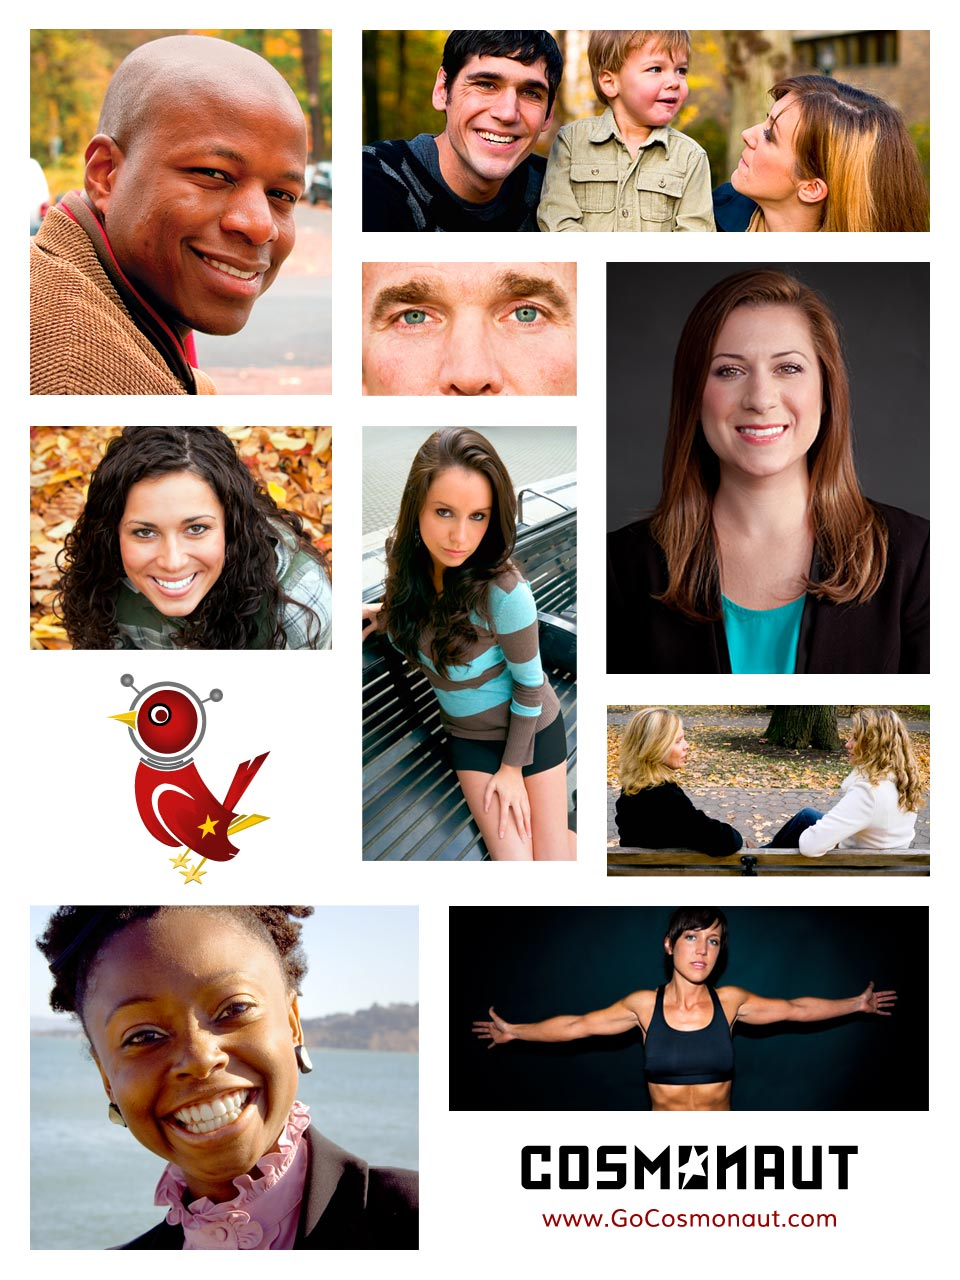
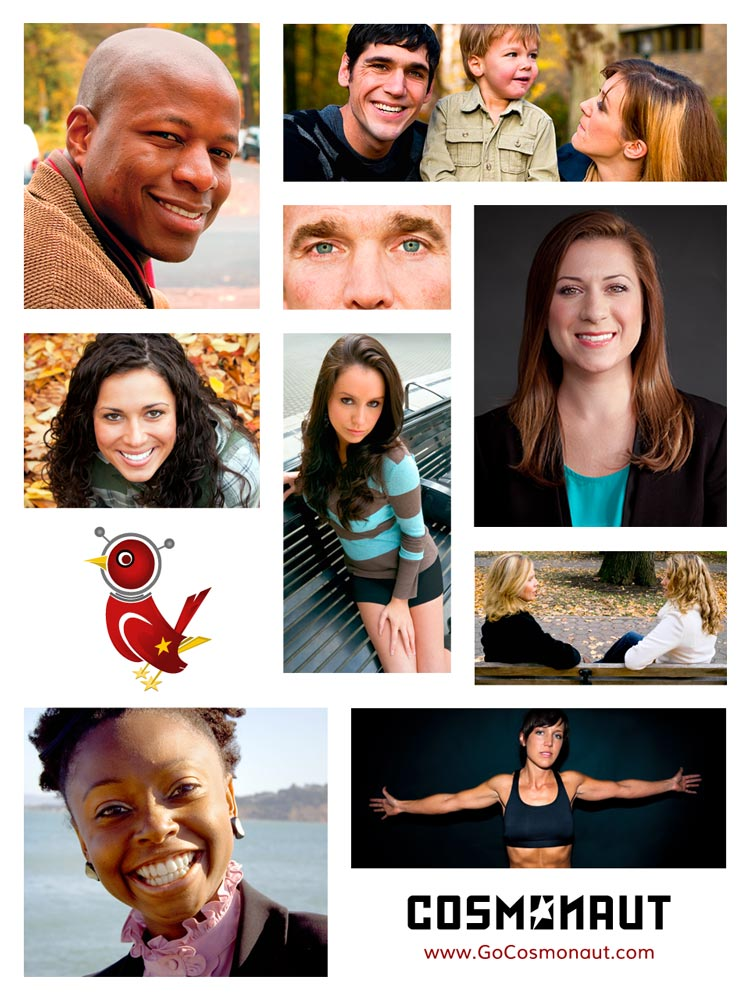
photography
431

diff --git a/css/common.css b/css/common.css
@@ -1,4 +1,4 @@
-/***--BOOTSTRAP BREAKPOINTS-- ***/
+w/***--BOOTSTRAP BREAKPOINTS-- ***/
 
 @media(min-width:1200px){
 
@@ -396,10 +396,10 @@ div#local-modals .modal-dialog { margin: 32px 13%;width: 74% }
 div#local-modals .modal-dialog { margin: 30px 10%;width: 80% }
 }
 @media(min-width:481px) and (max-width:767px){
-div#local-modals .modal-dialog { margin: 24px 8%;width: 84% }
+div#local-modals .modal-dialog { margin: 24px 7%;width: 86% }
 }
 @media (max-width:480px){
-
+div#local-modals .modal-dialog { margin: 24px 7%;width: 86% }
 }
 
 
@@ -410,7 +410,8 @@ div#photography div#photo-tout {margin:0px auto; text-align:left; position:relat
 
 div#photography div.photo-tout  h3 {margin:0px; padding:6px 10px; text-transform:uppercase; letter-spacing:0.75px; background:#bbb;  font-weight:300; color:white;}
 div#photo-touts p {padding:10px; }
-div.photo-tout { float:left; background:white; }
+div.photo-tout { float:left; background:white; text-align:center; }
+ div#photo-tout-two button#b13:hover, div#photo-tout-three button#b14:hover  { box-shadow:0px 0px 16px red;}
 div#photo-tout-one { }
 div#photo-tout-two {}
 div#photo-tout-three {margin-right:0%;}
@@ -418,24 +419,37 @@ div#photo-tout-three {margin-right:0%;}
 @media(min-width:1200px){
 div.photo-tout {width:31%; margin-right:3.33%; }
 div#photography div.photo-tout h3{ font-size:1em;}
-div#photography div.photo-tout img {width:100%; margin:10px 0; height:auto;}
+div#photography div.photo-tout img {width:52%; margin:10px 24%; text-align:center;height:auto;}
+div#photo-tout-two button#b13 { background:url(../img/product_macro.jpg) no-repeat left; border:0px; box-shadow:none; width:152px; height:152px; border-radius:240px; margin:10px auto;}
+div#photo-tout-three button#b14 { background:url(../img/staff_models.jpg) no-repeat center; border:0px; box-shadow:none; width:152px; height:152px; border-radius:240px; margin:10px auto;}
+div#photo-tout-two button#b13:hover { background:url(../img/product_macro.jpg) no-repeat right;}
+div#photo-tout-three button#b14:hover { background:url(../img/staff_models.jpg) no-repeat bottom;}
+
 }
 
 @media(min-width:992px) and (max-width:1199px){
 div.photo-tout {width:31%; margin-right:3.33%; }
 div#photography div.photo-tout h3 { font-size:1em;}
-div#photography div.photo-tout img {width:100%; margin:10px 0; height:auto;}
+div#photography div.photo-tout img {width:130px; margin:10px 0; height:130px;}
+div#photo-tout-two button#b13 { background:url(../img/product_macro.jpg) no-repeat left; border:0px; box-shadow:none; width:130px; height:130px; border-radius:240px; margin:10px auto;}
+div#photo-tout-three button#b14 { background:url(../img/staff_models.jpg) no-repeat center; border:0px; box-shadow:none; width:130px; height:130px; border-radius:240px; margin:10px auto;}
 }
 
 @media(min-width:768px) and (max-width:991px){
 div.photo-tout {width:31%; margin-right:3.33%; }
 div#photography div.photo-tout  h3 { font-size:1em;}
-div#photography div.photo-tout img {width:60%; margin:10px 20%;}
+div#photography div.photo-tout img {width:124px; margin:10px 0; height:124px;}
+div#photo-tout-two button#b13 { background:url(../img/product_macro.jpg) no-repeat left; border:0px; box-shadow:none; width:124x; height:124px; border-radius:240px; margin:10px auto;}
+div#photo-tout-three button#b14 { background:url(../img/staff_models.jpg) no-repeat center; border:0px; box-shadow:none; width:124px; height:124px; border-radius:240px; margin:10px auto;}
+
 }
 @media(min-width:481px) and (max-width:767px){
 div.photo-tout {width:100%; margin:0px;}
 div#photography div.photo-tout  h3 { font-size:1.2em;}
 div#photography div.photo-tout img {width:22%; margin:0px 0px 15px 15px; float:right;}
+div#photo-tout-two button#b13 { background:url(../img/product_macro.jpg) no-repeat left; border:0px; box-shadow:none; width:124px; height:124px; border-radius:240px; margin:10px auto;}
+div#photo-tout-three button#b14 { background:url(../img/staff_models.jpg) no-repeat center; border:0px; box-shadow:none; width:124px; height:124px; border-radius:240px; margin:10px auto;}
+
 }
 @media (max-width:480px){
 div#photography div.photo-tout img {width:30%; margin:0px 0px 15px 15px; float:right;}

diff --git a/index.php b/index.php
@@ -223,7 +223,7 @@
 <a name="photos" id="photos"></a>
 <div id="photo-tout-one" class="photo-tout">
 <h3>Stock and Editorial</h3>
-<p><a href="http://www.istockphoto.com/search/lightbox/16958408#1757d962" target="_blank"><img src="img/stock_editorial.jpg" /></a>Probably Leonardo da Vinci could be recognized as the first true biomechanist,[according to whom?] because he was the first to study anatomy in the context of mechanics.</p>
+<p><a href="http://www.istockphoto.com/search/lightbox/16958408#1757d962" target="_blank"><img src="img/stock_editorial.png" /></a></p>
 </div> <!-- end intro tout one -->
 
 <div id="photo-tout-two" class="photo-tout">
